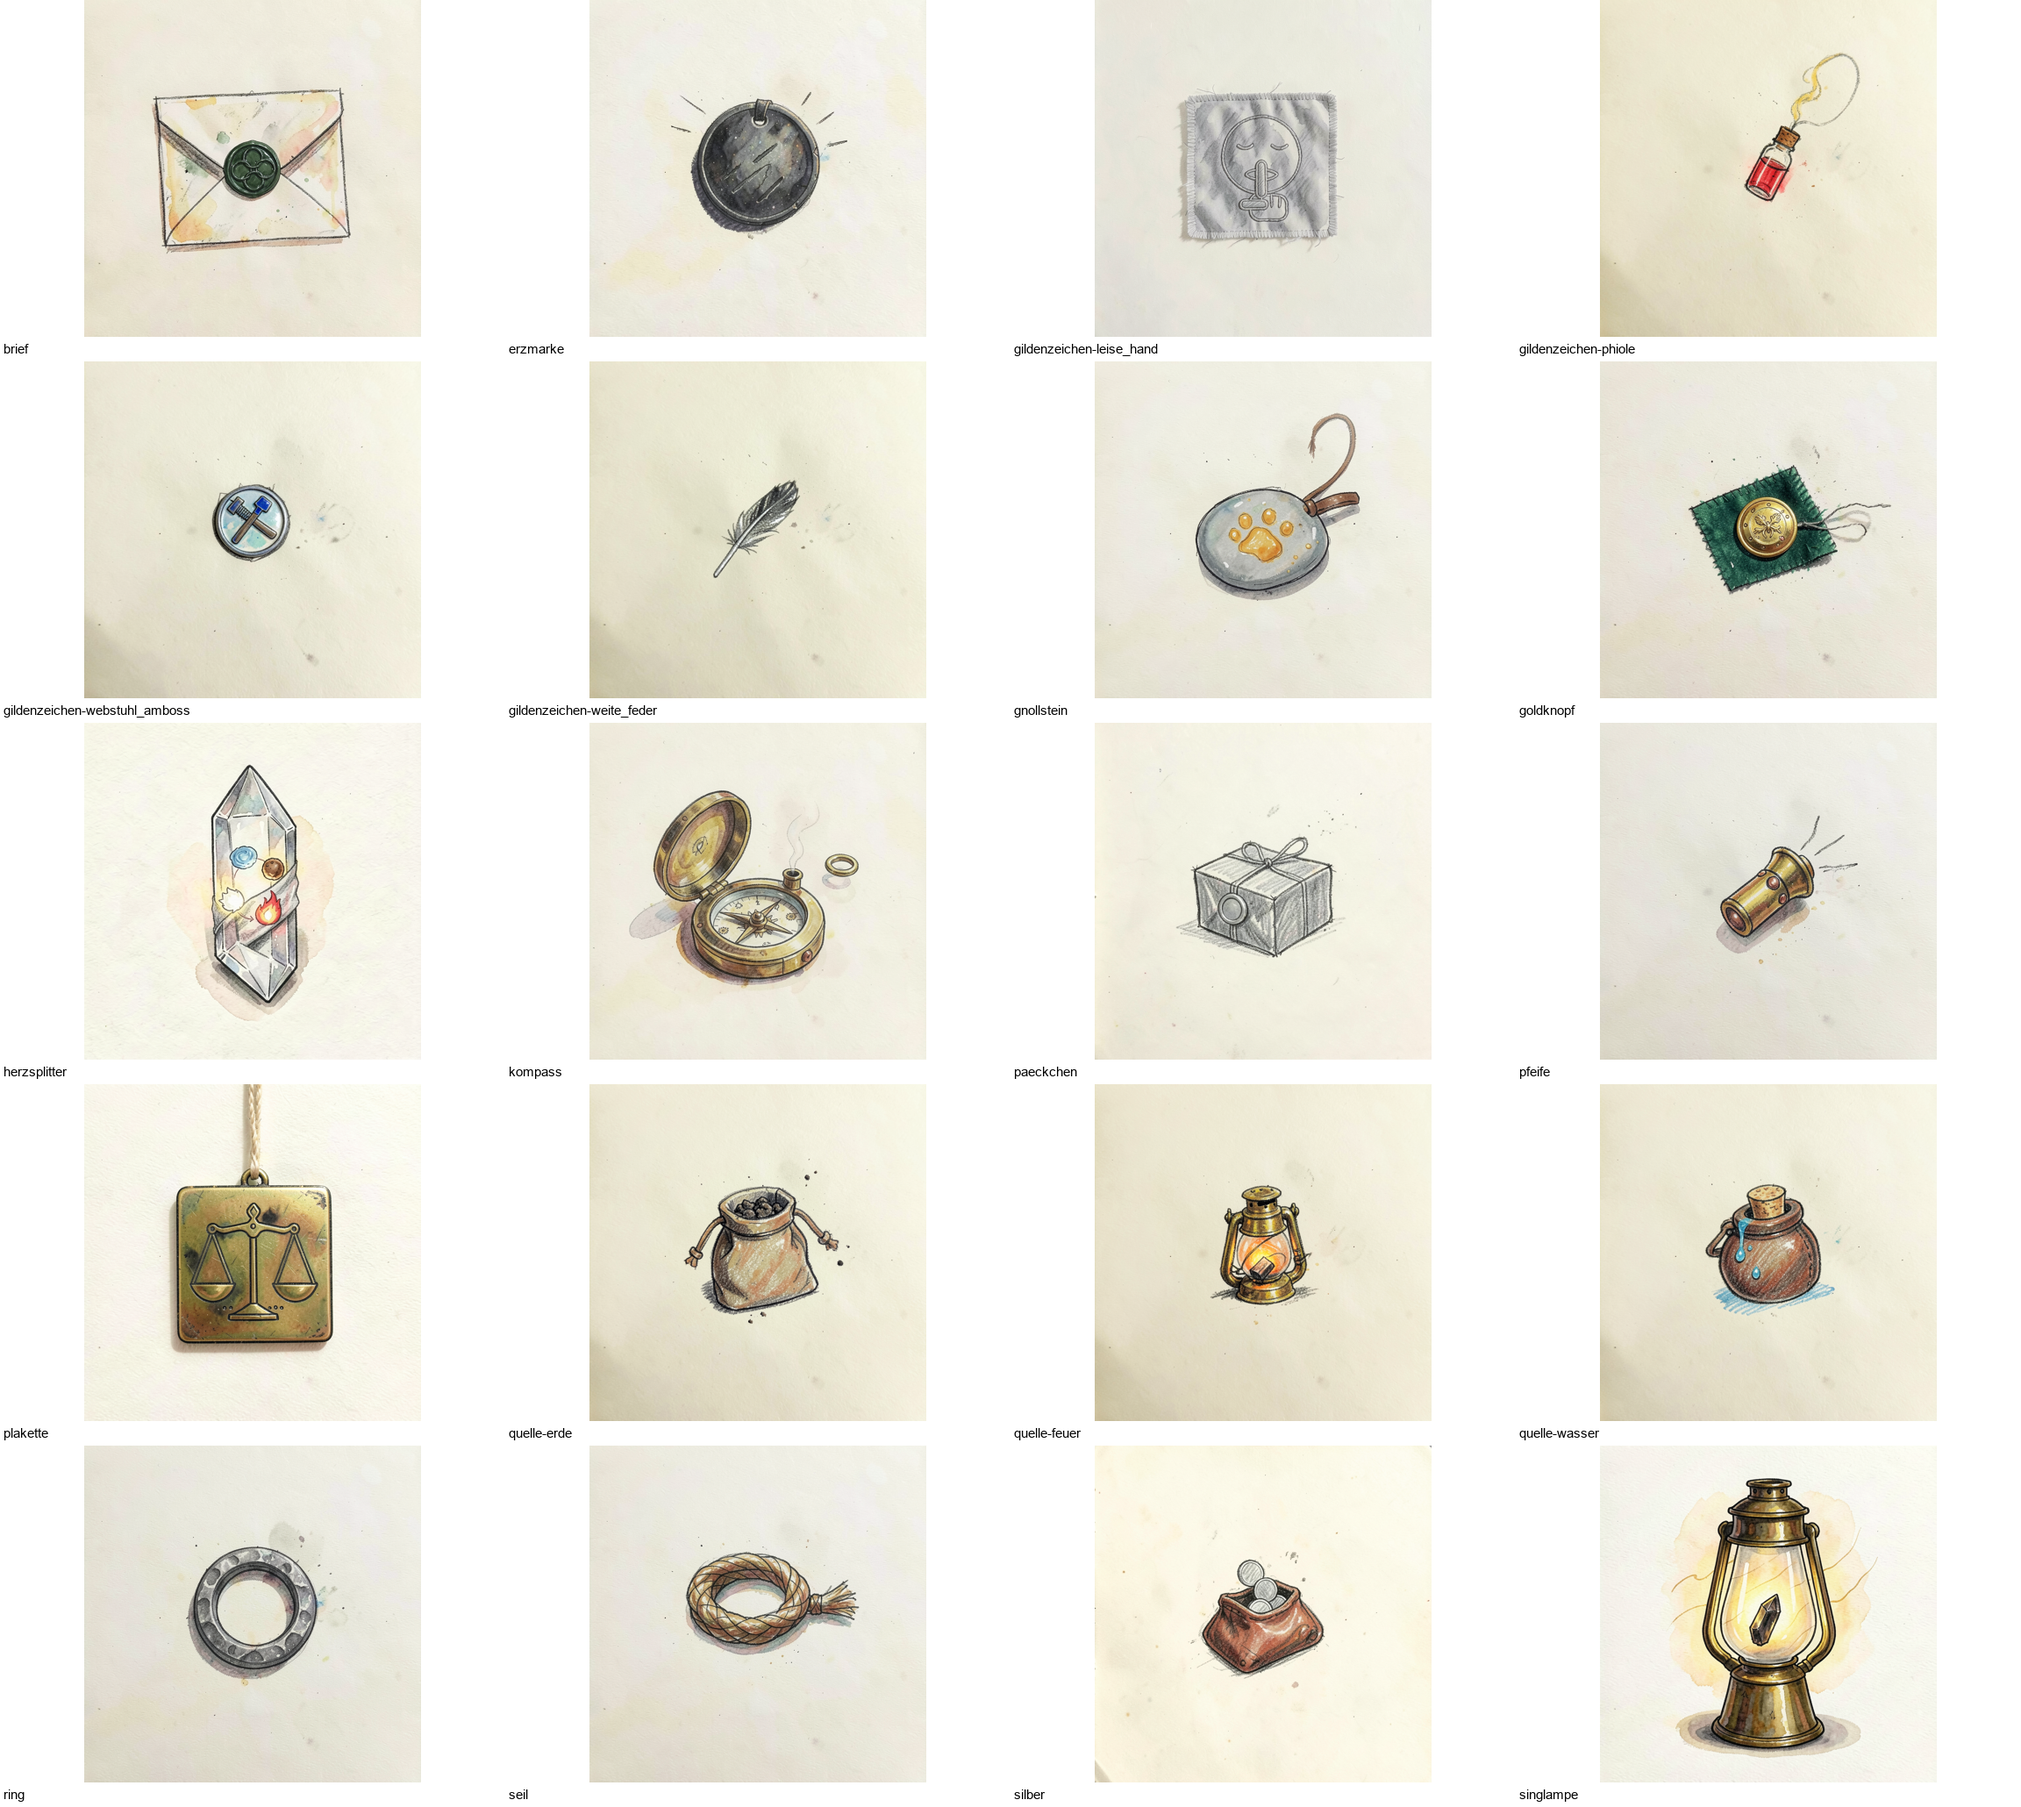
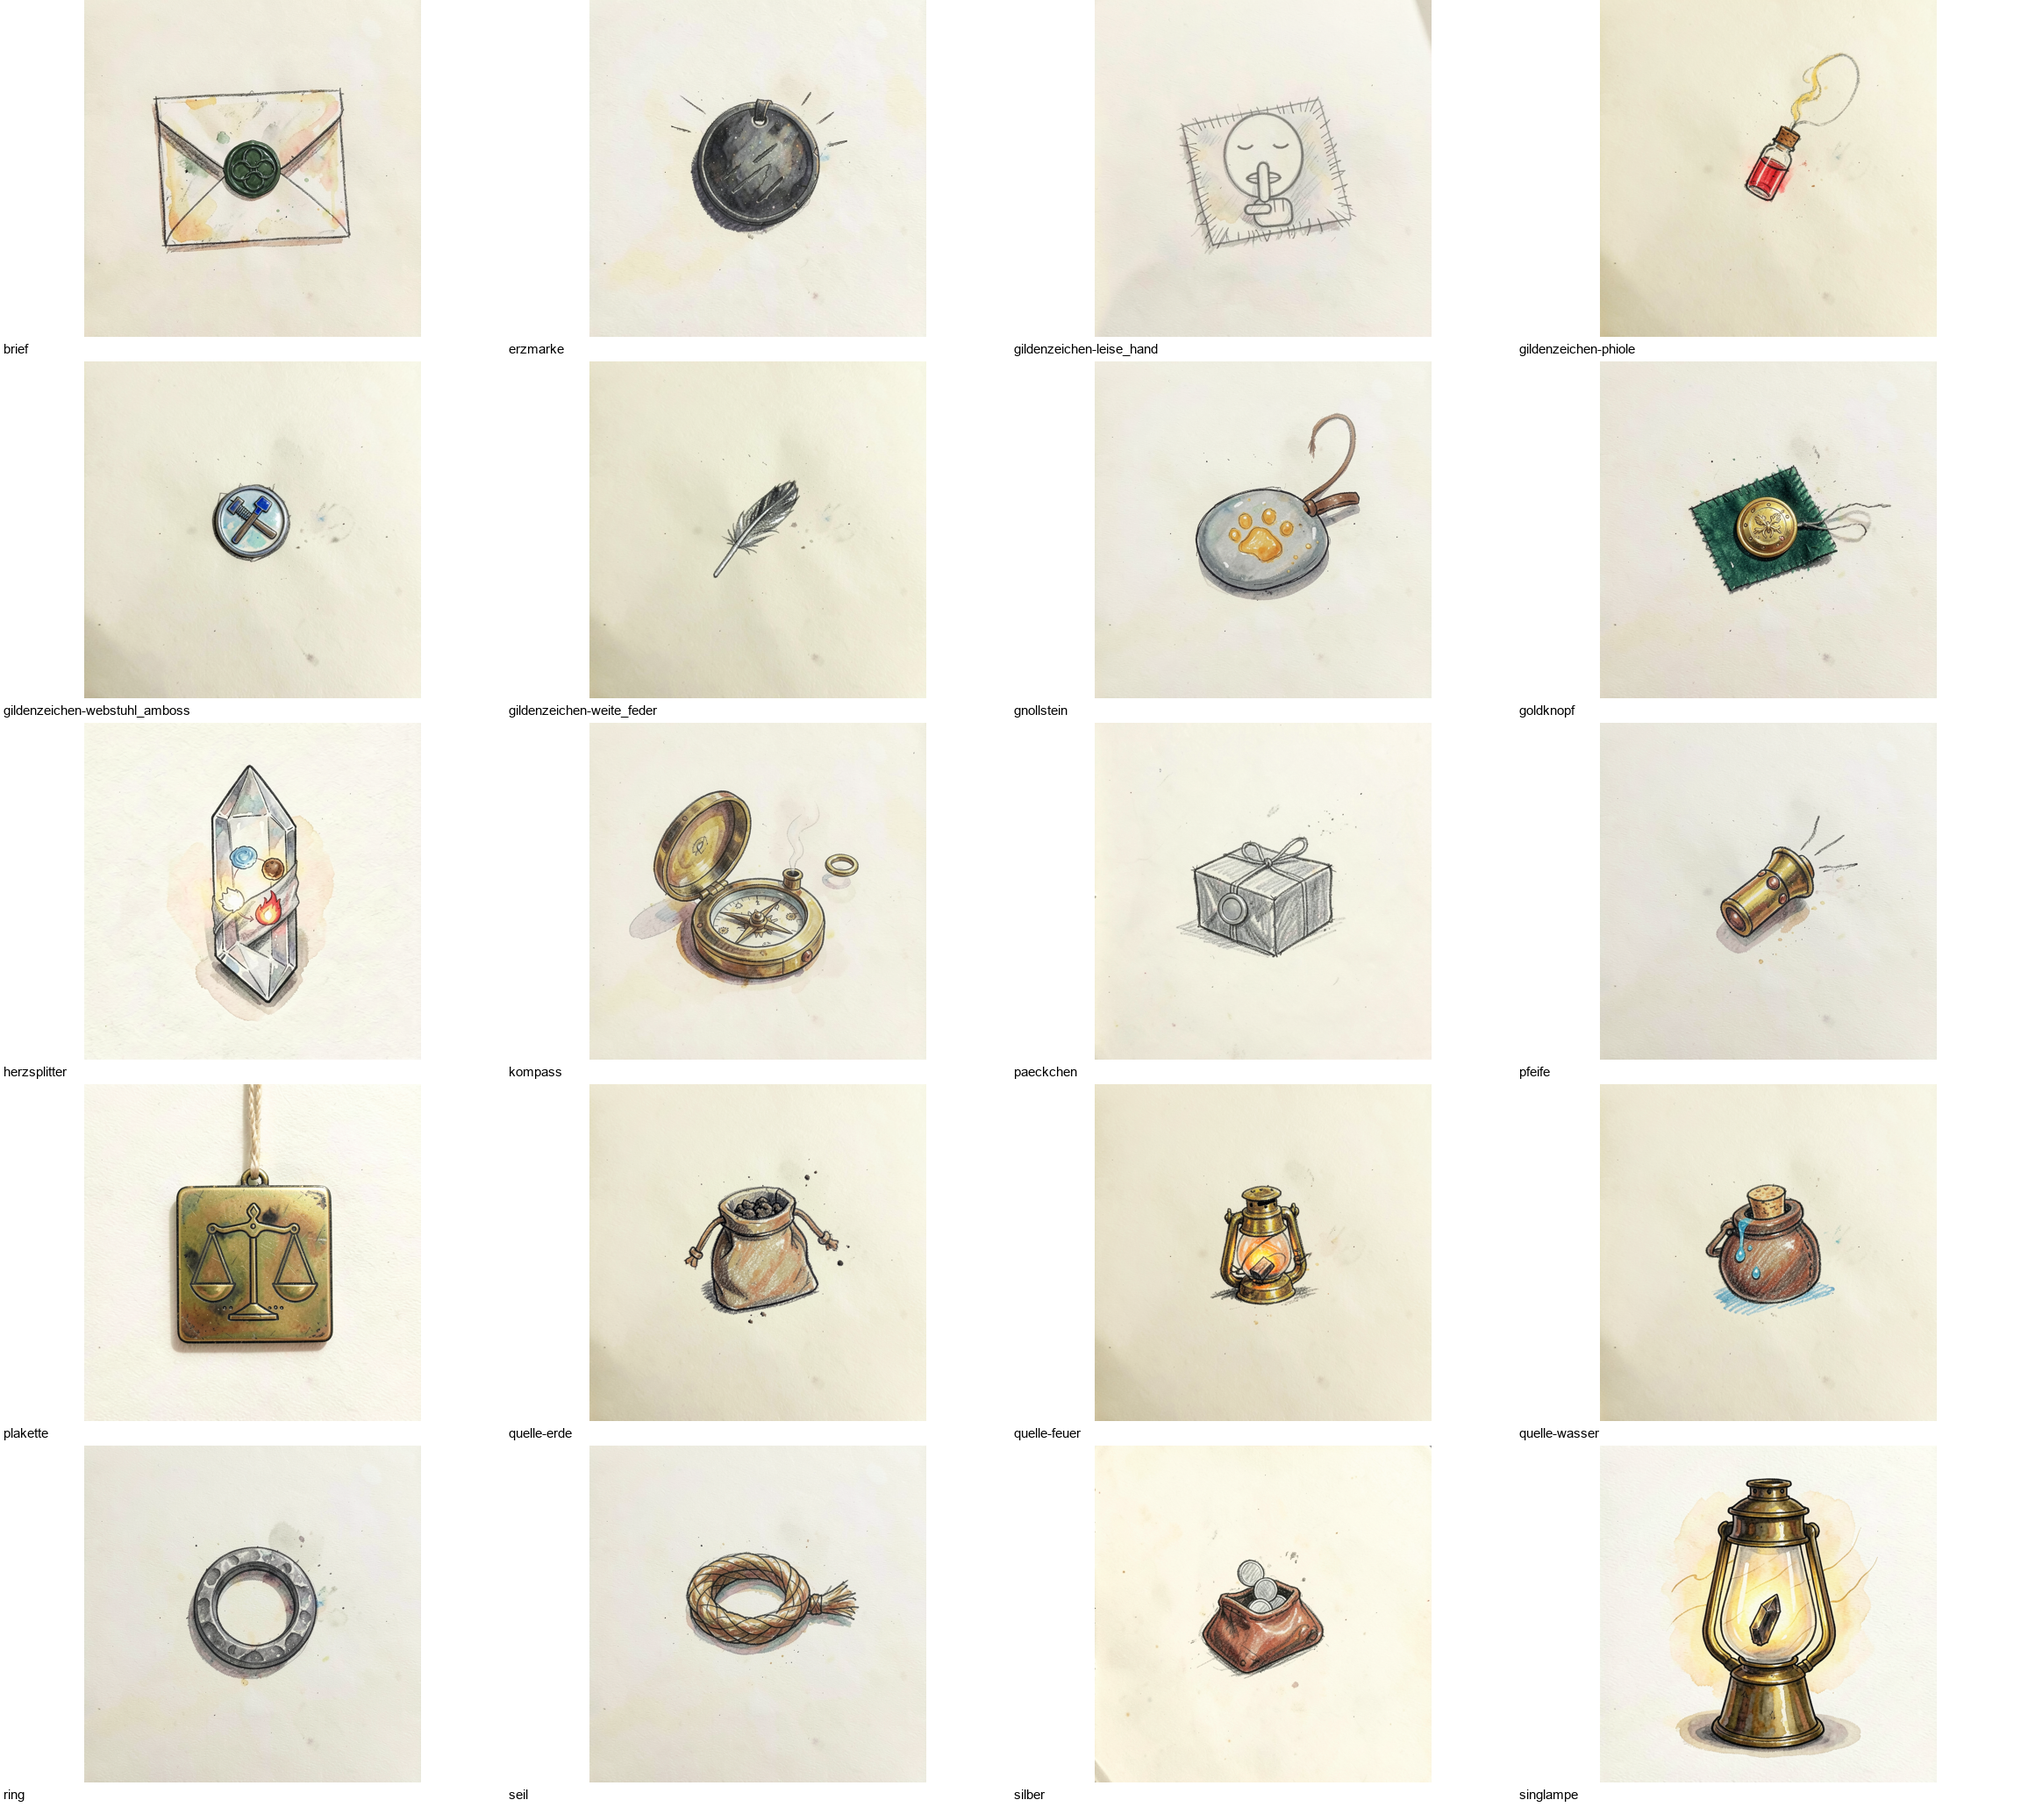
Gildenzeichen Leise Hand als Bleistiftskizze im Tagebuchstil

Changed region(s): [[0.5625, 0.0311, 0.6875, 0.1553], [0.6875, 0.0, 0.7188, 0.0311]]

diff --git a/docs/art/tagebuch/README.md b/docs/art/tagebuch/README.md
@@ -19,4 +19,4 @@ Ausgearbeitet von Claude am 14.10.2026. Kleine Skizzen für die Laschen **Tasche
 Alle 54 Skizzen mit `tools/erzeuge-szene.ps1`, je 4 Seeds, Referenzen aus der Kopfzeile. Übersichten: `uebersicht-taschen.png`, `uebersicht-menschen.png`.
 Gewählt ist Seed 1, außer: `herzsplitter` 3 (einziger mit vier Farben), `quelle-wasser` 1, `silber` 2, `paeckchen` 3, `gildenzeichen-leise_hand` 1, Menschen `tickwort` 3, `vael` 4 (Flaumhaar), `fesk` 2, `fink` 2, `grisk` 1, `ysolde` 2, `jaro` 2, `kettrich` 2.
 
-**Bekannte Schwächen:** `brief` – Ringsiegel sauber, vier Ringe. `faehrfrau` – Ringe auf dem Ruder. `fremder` – Gesicht sichtbar (wie gewählt). `kettrich` – am 19.10.2026 mit `menschen/kettrich-brille.prompt.txt` nachbearbeitet (Seed 1): jetzt gestapelte Gläser wie im Einzelbild. `yrsa` – Rußflecken im Gesicht. `gildenzeichen-leise_hand` – **zweimal nachgebessert (19.10.2026):** Die N7-Fassung sah aus wie eine Unterlippe mit Mittelfinger (von Pasco bemerkt) und wurde ersetzt. Jetzt mit exakt gezeichneter Vorlage `requisiten/leise-hand-vorlage.png` (`tools/leise-hand-vorlage.py`: Gesicht von vorn, Zeigefinger über den Lippen, Daumen und Faust sichtbar). Runde 1 eindeutig, aber Foto-Look; Runde 2 enthielt wieder eine falsche Hand; Runde 3 = Runde 1 Seed 3, per Bildbearbeitung (`gildenzeichen-leise_hand-skizze.prompt.txt`) in Aquarell umgewandelt, Seed 5. **Regel:** Dieses Zeichen nie nur aus Text erzeugen, immer mit der Vorlage. `jaro` neu (N8, Seed 12) mit hellem Papierrand. Einige Skizzen haben einen leicht gelblichen Papierrand statt nur Creme.
+**Bekannte Schwächen:** `brief` – Ringsiegel sauber, vier Ringe. `faehrfrau` – Ringe auf dem Ruder. `fremder` – Gesicht sichtbar (wie gewählt). `kettrich` – am 19.10.2026 mit `menschen/kettrich-brille.prompt.txt` nachbearbeitet (Seed 1): jetzt gestapelte Gläser wie im Einzelbild. `yrsa` – Rußflecken im Gesicht. `gildenzeichen-leise_hand` – **zweimal nachgebessert (19.10.2026):** Die N7-Fassung sah aus wie eine Unterlippe mit Mittelfinger (von Pasco bemerkt) und wurde ersetzt. Jetzt mit exakt gezeichneter Vorlage `requisiten/leise-hand-vorlage.png` (`tools/leise-hand-vorlage.py`: Gesicht von vorn, Zeigefinger über den Lippen, Daumen und Faust sichtbar). Runde 1 eindeutig, aber Foto-Look; Runde 2 enthielt wieder eine falsche Hand; Runde 3 (Aquarell-Bearbeitung) sah noch wie ein echter Stoffflicken aus (Pasco). **Runde 4, gewählt:** `gildenzeichen-leise_hand-stil.prompt.txt` mit zwei Referenzen – Vorlage für das Zeichen, `taschen/goldknopf.png` für den Zeichenstil –, Seed 4: einfache Bleistiftskizze wie die übrigen Tagebuchbilder. **Regel:** Dieses Zeichen nie nur aus Text erzeugen, immer mit der Vorlage. `jaro` neu (N8, Seed 12) mit hellem Papierrand. Einige Skizzen haben einen leicht gelblichen Papierrand statt nur Creme.
